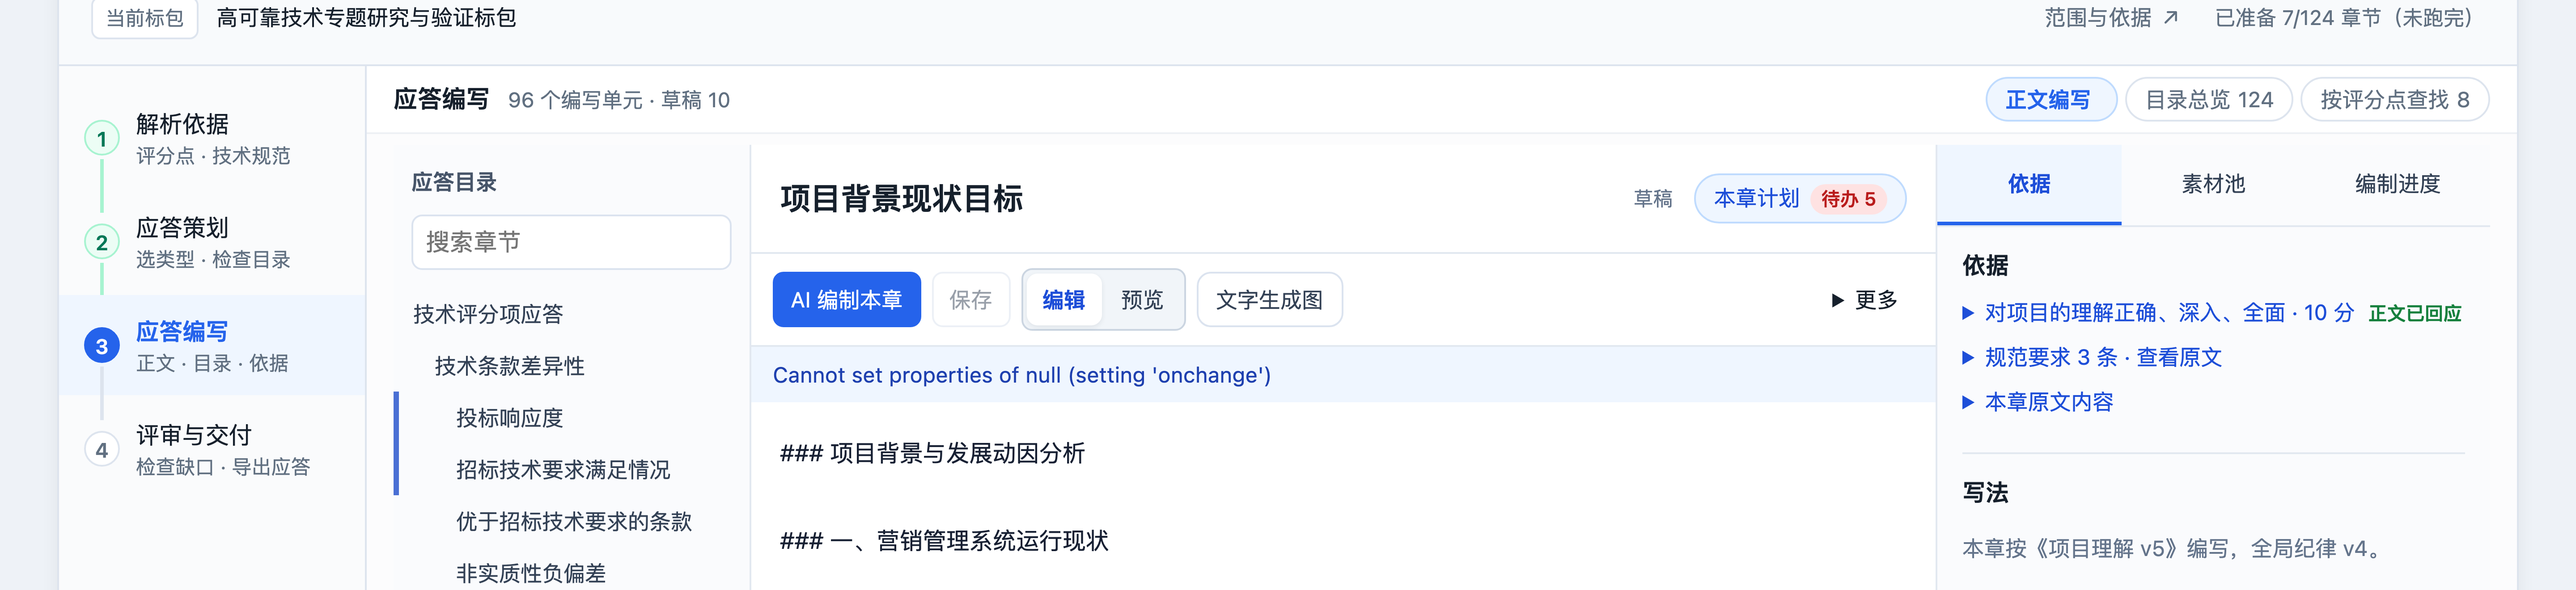
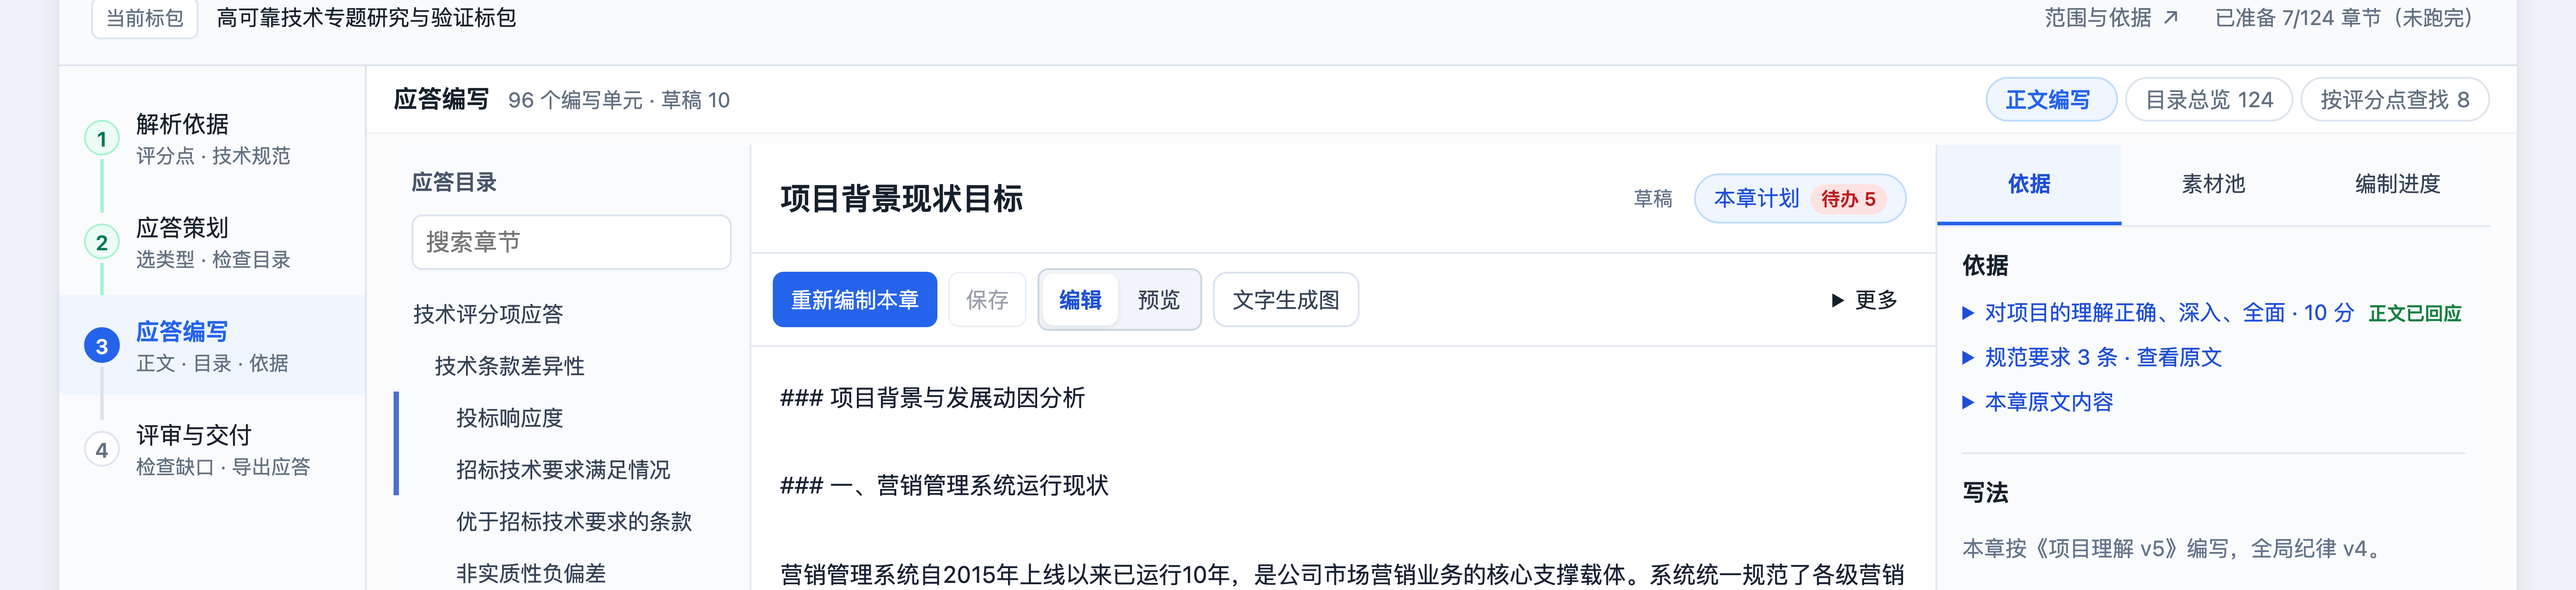
fix: layout 空值保护（删右栏编排建议后的遗留）+ 自检纳入"控制台零错误"
## 修复
- 右栏「编排建议」已移除（章节类型移入计划面板），但 `get('layout').onchange` 仍直接赋值
  → `Cannot set properties of null (setting 'onchange')`，界面上出现一条错误提示条
  → 改为 `const asideLayout = get('layout'); if (asideLayout) …`
- 截图复核时发现该错误（在第 3 步位置出现红色提示条），已消除

## 自检加固
- 界面审查新增一条硬规则：**页面无控制台错误**
  （之前只打印控制台错误、不判失败 → 这次的 onchange 错误差点漏过）
- 现在：26/26 通过（含"页面无控制台错误"）

## 间距结果
- 头部到工作台：57px → **10px**（头部高度 50 → 38px，残留的 25px 空块已隐藏）
- 头部行：应答编写 96 个编写单元 · 草稿 10 ｜ 右侧页签紧凑排列

后端 944 passed · 前端 160 passed · 界面 26/26（v305）

diff --git a/frontend/assets/mode-outline.js b/frontend/assets/mode-outline.js
@@ -2,9 +2,9 @@
    抽成模块的目的：两段内联脚本有 90 个同名顶层标识符 + 18 个重复 DOM id，
    同页拼接必然互相覆盖；各自成为一个模块即各自一个作用域。
    本文件在抽取时**未改任何逻辑**。 */
-import {mountChapterStudio, exportDocument} from './chapter-studio.mjs?v=20261016-v304';
-import { api } from './api.js?v=20261016-v304';
-import { specContentHtml } from './spec-content.mjs?v=20261016-v304';
+import {mountChapterStudio, exportDocument} from './chapter-studio.mjs?v=20261016-v305';
+import { api } from './api.js?v=20261016-v305';
+import { specContentHtml } from './spec-content.mjs?v=20261016-v305';
 // 顶栏（项目名旁边那行「第 N 轮 · ...」）由共享壳 workspace.js 渲染。这里要把它
 // 改成**页面自己的真实状态**：checkpoint 的 stage 在准备中/编写准备完成后都停在
 // outline_review，只看它的话顶栏永远显示"待确认目录"（实测就是这个问题）。
@@ -12,7 +12,7 @@ import { workspace, renderWorkspaceChrome,
          REQUIREMENT_ROLES, SELECTABLE_REQUIREMENT_ROLES, ROLE_LABEL_SHARED, ROLE_HINT_SHARED,
          roleMismatchWarning, inferRoleFromFilename,
          uiAlert, uiConfirm,
-       } from './workspace.js?v=20261016-v304';
+       } from './workspace.js?v=20261016-v305';
 import { resolvePackageScope, buildOutlineTree, isOrphanedRun, activeStages, instructionDirty, newOutlineId, outlineSubtreeRange,
          moveOutlineNode, indentOutlineNode, outdentOutlineNode,
          moveManyOutlineNodes, indentManyOutlineNodes, outdentManyOutlineNodes,
@@ -31,7 +31,7 @@ import { resolvePackageScope, buildOutlineTree, isOrphanedRun, activeStages, ins
          // 章节状态投影：素材库 / 方案编辑 / 覆盖矩阵共用同一份判定（不再各算各的）
          chapterStage, chapterBadges, filterChapters, chapterFilterCounts,
          CHAPTER_STAGE_LABELS, evidenceByChapter, expandVisibleWithAncestors
-       } from './workspace-model.mjs?v=20261016-v304';
+       } from './workspace-model.mjs?v=20261016-v305';
 
 const params = new URLSearchParams(location.search);
 // projectId **只取数字部分**：链接被误写成 `?projectId=19**(Cmd+Shift+R)`（连带说明文字）
@@ -180,7 +180,7 @@ document.head.insertAdjacentHTML('beforeend', `<style>
 // 左栏章节树：行标记与「方案编辑」共用一份（2026-10-13 左栏归一）。
 // 此前两侧各拼一套（.ot-row / .doc-outline-item），数据投影虽已共用，
 // 但标记重复维护会漂移（workspace-model.mjs 注释里记着 "#undefined" 那次）。
-import { chapterNode, chapterBadgesHtml as sharedBadgesHtml } from './chapter-tree.mjs?v=20261016-v304';
+import { chapterNode, chapterBadgesHtml as sharedBadgesHtml } from './chapter-tree.mjs?v=20261016-v305';
 const blocksEmpty = document.getElementById('blocks-empty');
 const sidebarToc  = document.getElementById('sidebar-toc');
 const ringFill    = document.getElementById('ring-fill');

diff --git a/frontend/workbench.html b/frontend/workbench.html
@@ -4,7 +4,7 @@
     <meta charset="UTF-8" />
     <meta name="viewport" content="width=device-width, initial-scale=1.0" />
     <title>智能应标 · 材料撰写</title>
-    <link rel="stylesheet" href="./assets/styles.css?v=20261016-v304" />
+    <link rel="stylesheet" href="./assets/styles.css?v=20261016-v305" />
     <style>
       /* Outline pane */
       .workspace-shell .outline-pane {
@@ -2055,7 +2055,7 @@
     </style>
     <!-- Markdown 渲染（用于预览模式） -->
     <script src="https://cdn.jsdelivr.net/npm/marked@12.0.0/marked.min.js"></script>
-  <link rel="stylesheet" href="./assets/workspace.css?v=20261016-v304" />
+  <link rel="stylesheet" href="./assets/workspace.css?v=20261016-v305" />
   </head>
   <body>
   <script>
@@ -2500,18 +2500,18 @@
       </main>
     </div>
 
-    <script type="module" src="./assets/workbench.js?v=20261016-v304"></script>
+    <script type="module" src="./assets/workbench.js?v=20261016-v305"></script>
     <script type="module">
-      import { GenerateSession } from './assets/generate-session.js?v=20261016-v304';
-      import { initContextPanel } from './assets/context-panel.js?v=20261016-v304';
-      import { api } from './assets/api.js?v=20261016-v304';
-      import { request as workspaceRequest, refreshWorkspace, workspace, confirmChapterAction } from './assets/workspace.js?v=20261016-v304';
+      import { GenerateSession } from './assets/generate-session.js?v=20261016-v305';
+      import { initContextPanel } from './assets/context-panel.js?v=20261016-v305';
+      import { api } from './assets/api.js?v=20261016-v305';
+      import { request as workspaceRequest, refreshWorkspace, workspace, confirmChapterAction } from './assets/workspace.js?v=20261016-v305';
       // 提炼字段枚举 + 素材依据的**渲染片段**与 project-init 共用（见 workspace-model.mjs 注释）：
       // 性质徽标与出处行的实现在那边只有一份，两个页面不再各写一套（曾经因此漂移出
       // "每行显示 #undefined"）。
       import { CONSTRAINT_LEVELS, constraintLevelLabel,
                evidenceKindBadgeHtml, evidenceSourceLineHtml, evidenceSnippet,
-               chapterStage, CHAPTER_STAGE_LABELS } from './assets/workspace-model.mjs?v=20261016-v304';
+               chapterStage, CHAPTER_STAGE_LABELS } from './assets/workspace-model.mjs?v=20261016-v305';
       initContextPanel();
 
       // 素材抽屉：默认收起（写作时右栏就是正文本身），点工具栏「素材 n ▸」打开；
@@ -5575,6 +5575,6 @@
       })();
     })();
     </script>
-  <script type="module" src="./assets/workspace.js?v=20261016-v304"></script>
+  <script type="module" src="./assets/workspace.js?v=20261016-v305"></script>
   </body>
 </html>

diff --git a/frontend/three-mode.html b/frontend/three-mode.html
@@ -4,9 +4,9 @@
     <meta charset="UTF-8" />
     <meta name="viewport" content="width=device-width, initial-scale=1.0" />
     <title>AiBidding · Workbench Init State</title>
-    <link rel="stylesheet" href="./assets/response-outline.css?v=20261016-v304" />
-    <link rel="stylesheet" href="./assets/chapter-studio.css?v=20261016-v304" />
-    <link rel="stylesheet" href="./assets/styles.css?v=20261016-v304" />
+    <link rel="stylesheet" href="./assets/response-outline.css?v=20261016-v305" />
+    <link rel="stylesheet" href="./assets/chapter-studio.css?v=20261016-v305" />
+    <link rel="stylesheet" href="./assets/styles.css?v=20261016-v305" />
     <style>
 /* ── 三栏布局 ── */
 .init-layout {
@@ -3350,8 +3350,8 @@ body[data-view="matching"] .match-detail { display: block; }
   body[data-view="editor"] .ws-editor-layout { flex: 1 1 auto; min-height: 0; }
 
 </style>
-  <link rel="stylesheet" href="./assets/workspace.css?v=20261016-v304" />
-  <link rel="stylesheet" href="./assets/ui.css?v=20261016-v304" />   <!-- 组件最小集：最后加载以统一历史类名 -->
+  <link rel="stylesheet" href="./assets/workspace.css?v=20261016-v305" />
+  <link rel="stylesheet" href="./assets/ui.css?v=20261016-v305" />   <!-- 组件最小集：最后加载以统一历史类名 -->
   </head>
   <body data-view="outline" data-modes="outline,matching,editor">
     <div class="workspace-shell">
@@ -4062,16 +4062,16 @@ body[data-view="matching"] .match-detail { display: block; }
         if (skel) skel.hidden = true;
       }, 6000);
     </script>
-    <script type="module" src="./assets/workbench.js?v=20261016-v304"></script>
-    <script type="module" src="./assets/mode-dispatch.js?v=20261016-v304"></script>
+    <script type="module" src="./assets/workbench.js?v=20261016-v305"></script>
+    <script type="module" src="./assets/mode-dispatch.js?v=20261016-v305"></script>
     <!-- 动态 import：失败可捕获并上报（静态 import 失败无法捕获，会让整页静默不执行） -->
     <script type="module">
-      for (const mod of ['./assets/mode-outline.js?v=20261016-v304',
-                        './assets/mode-editor.js?v=20261016-v304']) {
+      for (const mod of ['./assets/mode-outline.js?v=20261016-v305',
+                        './assets/mode-editor.js?v=20261016-v305']) {
         try { await import(mod); }
         catch (err) { window.__bootErrors.push(`模块加载失败 ${mod}：${err?.message || err}`); }
       }
     </script>
-  <script type="module" src="./assets/workspace.js?v=20261016-v304"></script>
+  <script type="module" src="./assets/workspace.js?v=20261016-v305"></script>
   </body>
 </html>

diff --git a/frontend/project-init.html b/frontend/project-init.html
@@ -4,7 +4,7 @@
     <meta charset="UTF-8" />
     <meta name="viewport" content="width=device-width, initial-scale=1.0" />
     <title>AiBidding · Workbench Init State</title>
-    <link rel="stylesheet" href="./assets/styles.css?v=20261016-v304" />
+    <link rel="stylesheet" href="./assets/styles.css?v=20261016-v305" />
     <style>
 /* ── 三栏布局 ── */
 .init-layout {
@@ -889,7 +889,7 @@ body[data-view="matching"] .match-detail { display: block; }
   background: #eff6ff;
 }
     </style>
-  <link rel="stylesheet" href="./assets/workspace.css?v=20261016-v304" />
+  <link rel="stylesheet" href="./assets/workspace.css?v=20261016-v305" />
   </head>
   <body data-view="outline">
   <script>
@@ -1097,14 +1097,14 @@ body[data-view="matching"] .match-detail { display: block; }
     </div>
 
     <script type="module">
-import { api } from './assets/api.js?v=20261016-v304';
+import { api } from './assets/api.js?v=20261016-v305';
 // 顶栏（项目名旁边那行「第 N 轮 · ...」）由共享壳 workspace.js 渲染。这里要把它
 // 改成**页面自己的真实状态**：checkpoint 的 stage 在提炼中/提炼完成后都停在
 // outline_review，只看它的话顶栏永远显示"待确认目录"（实测就是这个问题）。
 import { workspace, renderWorkspaceChrome,
          REQUIREMENT_ROLES, ROLE_LABEL_SHARED, ROLE_HINT_SHARED,
          roleMismatchWarning, inferRoleFromFilename,
-       } from './assets/workspace.js?v=20261016-v304';
+       } from './assets/workspace.js?v=20261016-v305';
 import { buildOutlineTree, isOrphanedRun, activeStages, instructionDirty, newOutlineId, outlineSubtreeRange,
          moveOutlineNode, indentOutlineNode, outdentOutlineNode,
          removeOutlineSubtree, insertSiblingAfter, insertChildOf,
@@ -1118,7 +1118,7 @@ import { buildOutlineTree, isOrphanedRun, activeStages, instructionDirty, newOut
          // 章节状态投影：素材库 / 方案编辑 / 覆盖矩阵共用同一份判定（不再各算各的）
          chapterStage, chapterBadges, filterChapters, chapterFilterCounts,
          CHAPTER_STAGE_LABELS, evidenceByChapter, expandVisibleWithAncestors
-       } from './assets/workspace-model.mjs?v=20261016-v304';
+       } from './assets/workspace-model.mjs?v=20261016-v305';
 
 const params = new URLSearchParams(location.search);
 const projectId = params.get('projectId');
@@ -4957,6 +4957,6 @@ bindMatchDetailActions();
   });
 })();
     </script>
-  <script type="module" src="./assets/workspace.js?v=20261016-v304"></script>
+  <script type="module" src="./assets/workspace.js?v=20261016-v305"></script>
   </body>
 </html>

diff --git a/frontend/assets/mode-editor.js b/frontend/assets/mode-editor.js
@@ -2,13 +2,13 @@
    抽成模块的目的：两段内联脚本有 90 个同名顶层标识符 + 18 个重复 DOM id，
    同页拼接必然互相覆盖；各自成为一个模块即各自一个作用域。
    本文件在抽取时**未改任何逻辑**。 */
-import { GenerateSession } from './generate-session.js?v=20261016-v304';
+import { GenerateSession } from './generate-session.js?v=20261016-v305';
 // 左栏章节树：与「要求与大纲 / 素材库」共用一份行标记（2026-10-13 左栏归一）
-import { chapterNode, renderChapterTree } from './chapter-tree.mjs?v=20261016-v304';
-import { initContextPanel } from './context-panel.js?v=20261016-v304';
-import { api } from './api.js?v=20261016-v304';
+import { chapterNode, renderChapterTree } from './chapter-tree.mjs?v=20261016-v305';
+import { initContextPanel } from './context-panel.js?v=20261016-v305';
+import { api } from './api.js?v=20261016-v305';
 import { request as workspaceRequest, refreshWorkspace, workspace, confirmChapterAction ,
-         uiAlert, uiConfirm} from './workspace.js?v=20261016-v304';
+         uiAlert, uiConfirm} from './workspace.js?v=20261016-v305';
 
 // ── 本章要求 bar 的应答条目缓存 ──────────────────────────────
 // 必须**声明在模块最前面**：它原本声明在文件中部，而模块之间存在循环依赖
@@ -21,7 +21,7 @@ let responseItemsByBlock = {};
 // "每行显示 #undefined"）。
 import { CONSTRAINT_LEVELS, constraintLevelLabel,
          evidenceKindBadgeHtml, evidenceSourceLineHtml, evidenceSnippet,
-         chapterStage, CHAPTER_STAGE_LABELS } from './workspace-model.mjs?v=20261016-v304';
+         chapterStage, CHAPTER_STAGE_LABELS } from './workspace-model.mjs?v=20261016-v305';
 initContextPanel();
 
 // 素材抽屉：默认收起（写作时右栏就是正文本身），点工具栏「素材 n ▸」打开；

diff --git a/frontend/project-intake.html b/frontend/project-intake.html
@@ -3,7 +3,7 @@
 <head>
   <meta charset="utf-8"><meta name="viewport" content="width=device-width,initial-scale=1">
   <title>项目准备 · 智能应标</title>
-  <link rel="stylesheet" href="/assets/styles.css?v=20261016-v304">
+  <link rel="stylesheet" href="/assets/styles.css?v=20261016-v305">
   <style>
     body{margin:0;background:#f7f8fa;color:#17202a;font-family:Inter,"PingFang SC",sans-serif}
     .shell{max-width:1120px;margin:auto;padding:28px}.top{display:flex;justify-content:space-between;align-items:center;margin-bottom:22px}
@@ -32,4 +32,4 @@
 </main>
 <dialog id="package-editor"><form id="package-form"><h2>编辑投标对象</h2><p class="hint">仅在识别有误时修改；名称可留空。</p><input id="edit-id" type="hidden"><label>对象类型<select id="edit-kind"><option value="package">标包</option><option value="section">标段</option><option value="target">独立标的</option></select></label><label>所属标的编号<input id="edit-target"></label><label>标包 / 标段编号<input id="edit-code"></label><label>完整名称<input id="edit-name" maxlength="300"></label><div class="actions"><button type="button" id="cancel-edit">取消</button><button class="primary" type="submit">保存</button></div></form></dialog>
 <dialog id="merge-dialog"><form id="merge-form"><h2>合并重复候选</h2><p class="hint">将当前候选的证据合并到以下保留项。已有运行成果的候选不能合并，保留项需要重新核验。</p><input id="merge-source" type="hidden"><label>保留的投标对象<select id="merge-destination"></select></label><div class="actions"><button type="button" id="cancel-merge">取消</button><button type="submit" class="primary">确认合并</button></div></form></dialog>
-<script type="module" src="/assets/intake.js?v=20261016-v304"></script></body></html>
+<script type="module" src="/assets/intake.js?v=20261016-v305"></script></body></html>

diff --git a/frontend/review.html b/frontend/review.html
@@ -4,16 +4,16 @@
     <meta charset="UTF-8" />
     <meta name="viewport" content="width=device-width, initial-scale=1.0" />
     <title>AiBidding · 质量检查</title>
-    <link rel="stylesheet" href="./assets/styles.css?v=20261016-v304" />
-    <link rel="stylesheet" href="./assets/review.css?v=20261016-v304" />
-  <link rel="stylesheet" href="./assets/workspace.css?v=20261016-v304" />
+    <link rel="stylesheet" href="./assets/styles.css?v=20261016-v305" />
+    <link rel="stylesheet" href="./assets/review.css?v=20261016-v305" />
+  <link rel="stylesheet" href="./assets/workspace.css?v=20261016-v305" />
   <style>
     /* 返回作业面板：与项目名同级的次级入口 */
     .back-to-panel { margin-left:10px; font-size:12.5px; color:var(--muted); text-decoration:none;
       border:1px solid var(--line); border-radius:8px; padding:3px 10px; }
     .back-to-panel:hover { color:var(--text); background:var(--bg-2); }
   </style>
-  <link rel="stylesheet" href="./assets/ui.css?v=20261016-v304" />   <!-- 组件最小集：最后加载以统一历史类名 -->
+  <link rel="stylesheet" href="./assets/ui.css?v=20261016-v305" />   <!-- 组件最小集：最后加载以统一历史类名 -->
   </head>
   <body>
     <div class="workspace-shell">
@@ -96,7 +96,7 @@
       </main>
     </div>
 
-    <script type="module" src="./assets/review.js?v=20261016-v304"></script>
-  <script type="module" src="./assets/workspace.js?v=20261016-v304"></script>
+    <script type="module" src="./assets/review.js?v=20261016-v305"></script>
+  <script type="module" src="./assets/workspace.js?v=20261016-v305"></script>
   </body>
 </html>

diff --git a/frontend/assets/workbench.js b/frontend/assets/workbench.js
@@ -1,12 +1,12 @@
-import {workspace, subscribe, refreshWorkspace, workspaceUrl, confirmChapterAction, openDialog, showHistory, statusLabels, esc} from './workspace.js?v=20261016-v304';
+import {workspace, subscribe, refreshWorkspace, workspaceUrl, confirmChapterAction, openDialog, showHistory, statusLabels, esc} from './workspace.js?v=20261016-v305';
 // 章节状态/依据徽标与「素材库」共用一份投影（同一棵目录树，四个环节都一样）
-import {chapterBadges, parseEvidence} from './workspace-model.mjs?v=20261016-v304';
+import {chapterBadges, parseEvidence} from './workspace-model.mjs?v=20261016-v305';
 // 左栏章节树：**三个模式共用一份**行标记（2026-10-13 归一）。
 // 此前编辑器侧自己拼 `.doc-outline-item`、大纲侧拼 `.ot-row`，是两套实现；
 // 数据投影本就共用（workspace-model），这里把标记也收敛掉。
 // 行上仍保留 `doc-outline-item` 类与 data-block-id 属性，兼容 mode-editor.js 里
 // 既有的 10 处选择器（改动面最小化）。
-import {chapterNode, renderChapterTree, chapterBadgesHtml} from './chapter-tree.mjs?v=20261016-v304';
+import {chapterNode, renderChapterTree, chapterBadgesHtml} from './chapter-tree.mjs?v=20261016-v305';
 // 左栏树的**唯一宿主**：由 mode-dispatch 在模式切换时把 #blocks-list 搬到当前模式的
 // 左栏位置。归一前这里是 `.doc-outline`，与大纲侧 `#blocks-list` 各渲一棵（实测
 // .ot-node 有 120 个 = 两棵各 60）。动态解析而不是加载时捕获，就是为了让宿主可搬。

diff --git a/frontend/projects.html b/frontend/projects.html
@@ -4,7 +4,7 @@
     <meta charset="UTF-8" />
     <meta name="viewport" content="width=device-width, initial-scale=1.0" />
     <title>智能应标 · 项目列表</title>
-    <link rel="stylesheet" href="./assets/styles.css?v=20261016-v304" />
+    <link rel="stylesheet" href="./assets/styles.css?v=20261016-v305" />
     <style>
       /* ── 页头 ── */
       .app-header {
@@ -613,7 +613,7 @@
       .btn-api-save:disabled { opacity: 0.45; cursor: default; }
       .btn-api-save:not(:disabled):hover { opacity: 0.88; }
     </style>
-    <link rel="stylesheet" href="./assets/ui.css?v=20261016-v304" />   <!-- 组件最小集：最后加载以统一历史类名 -->
+    <link rel="stylesheet" href="./assets/ui.css?v=20261016-v305" />   <!-- 组件最小集：最后加载以统一历史类名 -->
 </head>
   <body>
     <!-- 页头 -->
@@ -745,7 +745,7 @@
     </div>
 
     <script type="module">
-      import { api } from './assets/api.js?v=20261016-v304';
+      import { api } from './assets/api.js?v=20261016-v305';
 
       // ── 状态 ──
       const reqFiles = []; // {file, name, size, ext}

diff --git a/frontend/diff-review.html b/frontend/diff-review.html
@@ -4,8 +4,8 @@
     <meta charset="UTF-8" />
     <meta name="viewport" content="width=device-width, initial-scale=1.0" />
     <title>AiBidding · Diff Review</title>
-    <link rel="stylesheet" href="./assets/styles.css?v=20261016-v304" />
-  <link rel="stylesheet" href="./assets/workspace.css?v=20261016-v304" />
+    <link rel="stylesheet" href="./assets/styles.css?v=20261016-v305" />
+  <link rel="stylesheet" href="./assets/workspace.css?v=20261016-v305" />
   </head>
   <body>
     <div class="workspace-shell">
@@ -98,7 +98,7 @@
     </div>
 
     <script type="module">
-      import { api } from './assets/api.js?v=20261016-v304';
+      import { api } from './assets/api.js?v=20261016-v305';
 
       const params    = new URLSearchParams(location.search);
       const projectId = params.get('projectId');
@@ -326,6 +326,6 @@
 
       loadRevisions();
     </script>
-  <script type="module" src="./assets/workspace.js?v=20261016-v304"></script>
+  <script type="module" src="./assets/workspace.js?v=20261016-v305"></script>
   </body>
 </html>

diff --git a/frontend/assets/workspace.js b/frontend/assets/workspace.js
@@ -1,11 +1,11 @@
-import {projectChapters, summarize, statusLabels, stageLabels, activeStages, runtimeStages, isOrphanedRun, isExtractDone, diffHtml, escapeHtml as esc} from './workspace-model.mjs?v=20261016-v304';
+import {projectChapters, summarize, statusLabels, stageLabels, activeStages, runtimeStages, isOrphanedRun, isExtractDone, diffHtml, escapeHtml as esc} from './workspace-model.mjs?v=20261016-v305';
 export {statusLabels, esc};
 // 材料角色体系再导出：project-init 的角色下拉与"分类纠错提示"都从这里取
 export {
   REQUIREMENT_ROLES, SELECTABLE_REQUIREMENT_ROLES, SOURCE_ROLES, ALL_MATERIAL_ROLES,
   ROLE_LABEL as ROLE_LABEL_SHARED, ROLE_HINT as ROLE_HINT_SHARED,
   isRequirementRole, inferRoleFromFilename, roleMismatchWarning,
-} from './material-roles.mjs?v=20261016-v304';
+} from './material-roles.mjs?v=20261016-v305';
 export async function request(url, options) {
   const response = await fetch(url, options);
   const data = await response.json().catch(() => ({}));

diff --git a/frontend/assets/review.js b/frontend/assets/review.js
@@ -1,5 +1,5 @@
-import {workspace, subscribe, workspaceUrl, request, refreshWorkspace, confirmChapterAction, showHistory, openDialog, statusLabels, esc} from './workspace.js?v=20261016-v304';
-import {summarize, diffHtml} from './workspace-model.mjs?v=20261016-v304';
+import {workspace, subscribe, workspaceUrl, request, refreshWorkspace, confirmChapterAction, showHistory, openDialog, statusLabels, esc} from './workspace.js?v=20261016-v305';
+import {summarize, diffHtml} from './workspace-model.mjs?v=20261016-v305';
 const $ = id => document.getElementById(id);
 
 // 「← 作业面板」带上当前项目/线程/标包 —— 回面板仍是同一条作业、同一个标包
